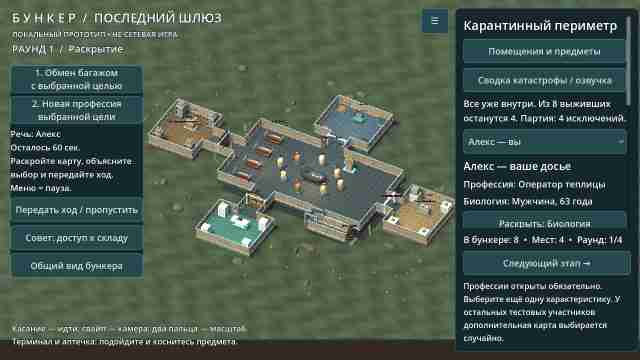
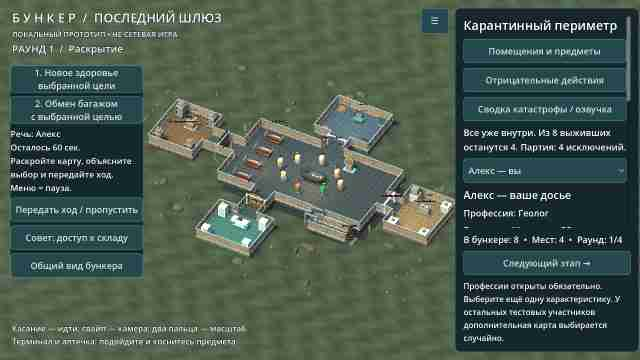
Deliver verified 0.12 APK, refreshed single preview set and cooperation draft

diff --git a/docs/ITERATION_12.md b/docs/ITERATION_12.md
@@ -1,0 +1,43 @@
+# 0.12 — камера, иконка и отрицательные действия
+
+[**Скачать ZIP с APK**](https://github.com/AlfaGideon/Bunker/actions/runs/40684852932/artifacts/12815035009) · [Android build](https://github.com/AlfaGideon/Bunker/actions/runs/40684852932) · [Godot CI](https://github.com/AlfaGideon/Bunker/actions/runs/40684853007).
+
+Исходники `6f539b3`, version code 12, `0.12.0-character-actions`; ZIP **64 271 689 байт**. Войти в GitHub, скачать ZIP и установить извлечённый `bunker-debug.apk`. При конфликте debug-подписей потребуется удалить прежнюю установку, с потерей локального профиля.
+
+## Камера
+
+Жесты сохранены: свайп перемещает камеру, щипок меняет масштаб. Размер ортокамеры ограничен диапазоном 7–40 вместо 4–80. При масштабировании дополнительно рассчитывается реальная проекция всех четырёх углов экрана на землю: на широком экране предельное отдаление при необходимости уменьшается. Панорамирование ограничено окрестностями бункера и безопасной областью земли `[-56, 56]` при размере площадки `[-64, 64]`. Поэтому ограничен не только центр камеры: весь видимый участок остаётся внутри земли с запасом до края. Начальное кадрирование также применяет ограничения. При отдалении камера дополнительно отодвигается вдоль оси взгляда: масштаб и привязка к земле не меняются, но нижние лучи экрана больше не оказываются под землёй и не создают полосу от ближней плоскости отсечения. Все четыре угла проверяются на существование пересечения с землёй.
+
+Тесты проверяют минимальный и максимальный масштаб, сильные свайпы к разным краям, привязку зума к пальцам, обычное соотношение сторон и расширенный экран BL9000 2460×1080. Это проверка геометрии и ввода в движке, не испытание на физическом телефоне.
+
+## Полный логотип на иконке
+
+В 0.11 дверь была намеренно выделена из выбранного изображения для маленькой иконки. Это отдельное решение реализации, а не другая генерация. В 0.12 иконка производится из **всего выбранного знака, с надписью**, вписанного в квадрат без вырезания двери. Исходник пользователя не меняется; меню и загрузочная заставка сохраняются. Для Android adaptive icon отдельно подготовлены прозрачный передний слой с полным знаком в центральной безопасной зоне и тёмный фон: круглая маска лаунчера не должна срезать крайние буквы. Пути всех трёх вариантов явно указаны в export preset. Из-за малого размера иконки мелкая подпись неизбежно читается хуже, чем в меню.
+
+## Отрицательные действия
+
+В меню партии и на правой панели появилась кнопка «Отрицательные действия». Требования и последствия видны всем, но кнопки доступны только при соответствующем недостатке собственного персонажа:
+
+| Характер | Действие | Реальное последствие для группы |
+|---|---|---|
+| Вспыльчивый | Устроить ссору | Разбита ёмкость: вода −3 |
+| Эгоистичный | Испортить общий рацион, пряча еду | Рацион −4 |
+| Небрежный / Упрямый | Пропустить обслуживание фильтра | Фильтры −1 |
+
+Три новых отрицательных качества добавлены в случайную раздачу. Упрямство было в наборе раньше. Профессия, болезнь или инвалидность сами по себе такие действия **не открывают**. Положительные активности и их профессиональные ограничения сохранены.
+
+Поступки добровольные, требуют подтверждения и раскрывают недостаток группе через обычное публичное досье. Не более одного отрицательного действия за раунд; при недостатке запасов списания нет. Исключённый персонаж, финал, голосование, движение или отдых блокируют действие. Проверка прав есть не только у кнопки, но и в методе исполнения. NPC не совершают случайный саботаж автоматически: это действие локального игрока, а не дополнительный скрытый штраф.
+
+Отдельный тест проверяет условия доступа, прямой вызов API, реальную кнопку и подтверждение, списание общих запасов, раскрытие карты, повторное использование, нехватку ресурсов и исключение игрока. Диагностический рендер меню не добавляется к постоянным 16 скриншотам.
+
+## Сотрудничество
+
+[Текст обращения владельцу сайта](COOPERATION_PROPOSAL_RU.md). Это черновик для предварительного знакомства: честно указаны стадия прототипа и отсутствие сетевого режима. Ничего не отправлялось; передача прав, интеграция и коммерческие условия не обещаны и требуют отдельного обсуждения.
+
+## Результат проверки
+
+Android build и все четыре job Godot workflow успешны. Все 13 тестовых скриптов выполнены, включая настоящий UI подтверждения отрицательного действия. Проверено, что viewport теста действительно расширился до соотношения сторон BL9000, все четыре экранных луча пересекают землю и весь видимый прямоугольник остаётся внутри безопасных границ. Дополнительно проверена геометрия adaptive icon: ни один непрозрачный пиксель знака не выходит за круглый Android viewport.
+
+Проверены настоящий рендер игрового вида без нижней полосы отсечения и меню отрицательных действий. Полный набор из 16 JPEG заменён под прежними именами и полностью декодирован; временные диагностические JPEG удалены. На физическом телефоне ещё нужно проверить управление, FPS, установку и вид иконки в конкретном лаунчере.
+
+![Текущий игровой вид](previews/bunker.jpg)

diff --git a/README.md b/README.md
@@ -11,22 +11,24 @@
 
 Направление прототипа: Godot 4, стилизованное 3D с камерой сверху под углом и карточным 2D-интерфейсом; целевая платформа — Android. Подключены 3D-модели Quaternius (CC0); источники и лицензии — в [THIRD_PARTY.md](THIRD_PARTY.md).
 
-## Текущий тестовый APK — 0.11: выбранный логотип и живой лагерь
+## Текущий тестовый APK — 0.12: камера, полный знак и отрицательные действия
 
-[**Скачать ZIP с bunker-debug.apk**](https://github.com/AlfaGideon/Bunker/actions/runs/40633858309/artifacts/12793005603) (нужен вход в GitHub; хранение 14 дней).
+[**Скачать ZIP с bunker-debug.apk**](https://github.com/AlfaGideon/Bunker/actions/runs/40684852932/artifacts/12815035009) (нужен вход в GitHub; хранение 14 дней).
 
-В заставку, приветственное меню и иконку вставлен **выбранный пользователем логотип**. Вместо конических примитивов в лагере — две модели хвойных деревьев Quaternius, с мягким ветром и закреплёнными корнями. Костёр — импортированная модель дров и пламени с деформацией огня, искрами, дымом и живым тёплым светом. Лицензии моделей — CC0-1.0; источники и хеши сохранены.
+- **Камера ограничена по всей видимой области**, а не только по центру. Масштаб 7–40, безопасные границы панорамирования и дополнительный расчёт углов широкого экрана не дают увидеть край площадки. Исправлена также нижняя полоса от ближней плоскости отсечения при отдалении. Свайп и щипок сохранены.
+- **Иконка APK теперь содержит весь выбранный знак**, а не отдельно вырезанную дверь. Для адаптивных Android-иконок знак помещён в безопасную область, чтобы круглая маска не срезала буквы. Логотип меню и заставки сохранён.
+- **Отрицательные действия** доступны только при конкретном недостатке характера: ссора для вспыльчивого, порча спрятанных рационов для эгоистичного, пропуск обслуживания для небрежного/упрямого. Реально уменьшаются общие запасы. Нужны подтверждение и раскрытие недостатка группе; одно действие за раунд. Профессия или заболевание сами по себе доступ не дают.
 
-Персонаж сидит и анимируется. В меню меняются никнейм, модель и оттенок одежды с живым предпросмотром. Только «Начать партию» создаёт бункер. Сохранение профиля, параметры партии и настройки сохранены; режим уменьшенных эффектов отключает ветер и частицы.
+Сохранены живой лагерь с моделями Quaternius, ветер, огонь, настройка внешности, профиль и все положительные активности.
 
-[**Изменения и источники моделей**](docs/ITERATION_11.md) · [Приветственное меню](docs/ITERATION_10.md) · [Godot CI](https://github.com/AlfaGideon/Bunker/actions/runs/40633858618) · [Android build](https://github.com/AlfaGideon/Bunker/actions/runs/40633858309).
+[**Подробности 0.12**](docs/ITERATION_12.md) · [Черновик предложения о сотрудничестве](docs/COOPERATION_PROPOSAL_RU.md) · [Godot CI](https://github.com/AlfaGideon/Bunker/actions/runs/40684853007) · [Android build](https://github.com/AlfaGideon/Bunker/actions/runs/40684852932).
 
-Исходники APK: `00e2854`; version code 11, ZIP **65 015 930 байт**. Все 12 тестовых скриптов, четыре job Godot workflow и Android export успешны. В проекте остаётся один актуальный набор из 16 скриншотов.
+Исходники APK: `6f539b3`; version code 12, `0.12.0-character-actions`, ZIP **64 271 689 байт**. Все 13 тестовых скриптов, четыре job Godot workflow и Android export успешны. Проверены настоящая кнопка и подтверждение отрицательного действия, реальные списания и ограничения камеры при 2460×1080. Это проверки в движке; физический BL9000 ещё требует испытания. В проекте один актуальный набор из 16 скриншотов, без архивов версий.
 
-![Текущее приветственное меню — настоящий рендер Godot](docs/previews/menu.jpg)
+![Текущий бункер — настоящий рендер Godot](docs/previews/bunker.jpg)
 
 **В самой партии сохранены:** отдельные наружные пристройки и коридоры, профессиональный доступ, совет склада, кухня/еда, две способности, выступления по 60 секунд, выбор d6/d20. Камера управляется свайпом и двумя пальцами, на ПК — мышью и колесом.
 
 **Локальный прототип, не онлайн-игра.** Остальные участники — тестовые фикстуры. Нет чата/микрофона и сохранения партии между запусками. Проверка на физическом BL9000 ещё нужна. При конфликте debug-подписи потребуется удалить прежнюю установку с потерей профиля. [Источники моделей и лицензии](THIRD_PARTY.md).
 
-Предыдущие итерации: [0.10](docs/ITERATION_10.md), [0.9](docs/ITERATION_09.md), [0.8](docs/ITERATION_08.md), [0.7](docs/ITERATION_07.md), [0.6](docs/ITERATION_06.md).
+Предыдущие итерации: [0.11](docs/ITERATION_11.md), [0.10](docs/ITERATION_10.md), [0.9](docs/ITERATION_09.md), [0.8](docs/ITERATION_08.md), [0.7](docs/ITERATION_07.md), [0.6](docs/ITERATION_06.md).

diff --git a/docs/BUILD_STATUS.md b/docs/BUILD_STATUS.md
@@ -1,6 +1,8 @@
 # Проверки и APK
 
-**Текущая версия 0.11 — выбранный логотип и живой лагерь:** [APK](https://github.com/AlfaGideon/Bunker/actions/runs/40633858309/artifacts/12793005603), [Android build](https://github.com/AlfaGideon/Bunker/actions/runs/40633858309), [Godot CI](https://github.com/AlfaGideon/Bunker/actions/runs/40633858618), [изменения, источники и лицензии](ITERATION_11.md). Исходники `00e2854`, version code 11, ZIP 65 015 930 байт. Все 12 тестовых скриптов, четыре job Godot workflow и Android export успешны. 16 текущих JPEG полностью проверены, версии не накапливаются. Физический BL9000 ещё требует проверки.
+**Текущая версия 0.12:** [APK](https://github.com/AlfaGideon/Bunker/actions/runs/40684852932/artifacts/12815035009), [Android build](https://github.com/AlfaGideon/Bunker/actions/runs/40684852932), [Godot CI](https://github.com/AlfaGideon/Bunker/actions/runs/40684853007), [изменения](ITERATION_12.md). Исходники `6f539b3`, version code 12, ZIP 64 271 689 байт. Все 13 тестовых скриптов, четыре job Godot workflow и Android export успешны. В том числе проверены API и настоящая кнопка отрицательного действия, подтверждение, списания, раскрытие недостатка и повторное использование; камера ограничена по всем четырём углам обычного и действительно расширенного viewport 2460×1080. Все 16 текущих JPEG декодированы полностью, SHA-256 моделей сверены. Физический BL9000 не тестировался.
+
+**Историческая версия 0.11 — выбранный логотип и живой лагерь:** [APK](https://github.com/AlfaGideon/Bunker/actions/runs/40633858309/artifacts/12793005603), [Android build](https://github.com/AlfaGideon/Bunker/actions/runs/40633858309), [Godot CI](https://github.com/AlfaGideon/Bunker/actions/runs/40633858618), [изменения, источники и лицензии](ITERATION_11.md). Исходники `00e2854`, version code 11, ZIP 65 015 930 байт. Все 12 тестовых скриптов, четыре job Godot workflow и Android export успешны. 16 текущих JPEG полностью проверены, версии не накапливаются. Физический BL9000 ещё требует проверки.
 
 **Историческая версия 0.10 — приветственное меню:** [APK](https://github.com/AlfaGideon/Bunker/actions/runs/40632081862/artifacts/12792335342), [Android build](https://github.com/AlfaGideon/Bunker/actions/runs/40632081862), [Godot CI](https://github.com/AlfaGideon/Bunker/actions/runs/40632081914), [изменения и инструкция](ITERATION_10.md). Исходники `d536e08`, version code 10, ZIP 61 448 796 байт. Все 12 тестовых скриптов, Android export и четыре job Godot workflow успешны. Реальные рендеры меню проверены, актуальные 16 JPEG заменены без версионных копий. Физический BL9000 ещё требует проверки.
 

diff --git a/THIRD_PARTY.md b/THIRD_PARTY.md
@@ -44,3 +44,7 @@ a fallback for the legacy figures, including exterior infected characters.
 Выбранный пользователем AI-логотип сохранён как `assets/branding/logo-choice-next.png`; заставка, прозрачная версия меню и иконка производятся из него скриптом `tools/prepare_selected_branding.py`, без повторной генерации или перерисовки. Рабочий знак предыдущей версии заменён.
 
 Подключены Quaternius Ultimate Nature Pack (`PineTree_1`, `PineTree_3`) и Survival Pack (`Bonfire_Fire`), CC0-1.0. Закреплённые источники и SHA-256 — `assets/manifest.json`; архив таблицы лицензий зеркала — `assets/licenses/QUATERNIUS_PACK_LICENSES.md`. Модели не изменялись; ветер, деформация огня, искры и дым применяются во время исполнения. Это стилизованные 3D-модели, не фотореалистические сканы.
+
+## Иконка 0.12
+
+Все варианты иконки теперь производятся из полного выбранного знака, а не из отдельного фрагмента двери. Adaptive foreground имеет прозрачные поля для безопасной области Android; фон отдельный. Новые сторонние изображения и модели для этой правки не добавлялись. Предложение о сотрудничестве — только черновик; аффилиации или интеграции с внешним сайтом нет.

diff --git a/docs/RUNNING.md b/docs/RUNNING.md
@@ -1,4 +1,4 @@
-# Запуск локального прототипа — 0.11
+# Запуск локального прототипа — 0.12
 
 ## Исходники
 
@@ -8,6 +8,8 @@
 4. Нажать «Начать партию»: настройки сохранятся, загрузится бункер и откроется аварийная сводка. Профессии сразу публичны; при раскрытии биологии внешность определяется её полом и возрастом.
 
 ## Управление
+
+[Изменения 0.12](ITERATION_12.md): зум и панорамирование ограничены безопасной областью земли. «Отрицательные действия» находятся на правой панели и в меню партии; они требуют конкретного недостатка характера и подтверждения. Болезнь/инвалидность доступ не открывает. При использовании недостаток раскрывается группе; одно действие за раунд. Иконка приложения содержит полный выбранный знак.
 
 [Логотип, модели лагеря и ветер 0.11](ITERATION_11.md). Если включено «Уменьшить эффекты, ветер и искры», деревья не качаются и частицы отключены — это намеренный режим.
 
